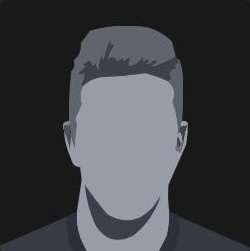
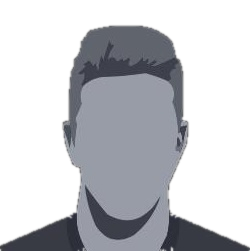
Fix league row alignment, use contract year and xValue

diff --git a/scout-app/src/PlayerScoutingCard.js b/scout-app/src/PlayerScoutingCard.js
@@ -296,6 +296,29 @@ const LEAGUE_DISPLAY_NAMES = {
 };
 
 // ── Country name (as found in birthCountry field) → ISO 3166-1 alpha-2 code, for flagcdn ──
+const POSITION_LABELS = {
+  'GK':'Goalkeeper (GK)',
+  'RB':'Right Back (RB)',
+  'RWB':'Right Wingback (RWB)',
+  'LCB':'Centre Back (CB)',
+  'CB':'Centre Back (CB)',
+  'RCB':'Centre Back (CB)',
+  'LB':'Left Back (LB)',
+  'LWB':'Left Wingback (LWB)',
+  'DMF':'Defensive Midfielder (DM)',
+  'LDMF':'Defensive Midfielder (DM)',
+  'RDMF':'Defensive Midfielder (DM)',
+  'LCMF':'Central Midfielder (CM)',
+  'RCMF':'Central Midfielder (CM)',
+  'AMF':'Attacking Midfielder (AM)',
+  'RAMF':'Right Winger (RW)',
+  'RWF':'Right Winger (RW)',
+  'RW':'Right Winger (RW)',
+  'LAMF':'Left Winger (LW)',
+  'LWF':'Left Winger (LW)',
+  'LW':'Left Winger (LW)',
+  'CF':'Striker (CF)',
+};
 const COUNTRY_TO_ISO2 = {
   'England': 'gb-eng', 'Scotland': 'gb-sct', 'Wales': 'gb-wls', 'Northern Ireland': 'gb-nir',
   'Spain': 'es', 'Germany': 'de', 'Italy': 'it', 'France': 'fr', 'Belgium': 'be',
@@ -563,8 +586,12 @@ export function buildCardElement(player, manual = {}) {
       <div id="scc-photo" style="position:absolute;left:-12px;top:16px;width:261px;height:261px;background-color:transparent;background-image:url('${photo}');background-size:cover;background-position:center top;"></div>
 
       <!-- NAME / POSITION / FOOT / FLAG / AGE -->
-      <div style="position:absolute;left:248px;top:24px;width:880px;font-size:53.2px;font-weight:700;line-height:1.05;letter-spacing:-0.5px;white-space:nowrap;overflow:hidden;text-overflow:ellipsis;">${player.name}</div>
-      <div style="position:absolute;left:248px;top:87px;font-size:26.6px;font-weight:600;color:#fff;">${player.position ? player.position.split(',')[0].trim() : (ROLE_KEY_LABELS[player.roleKey] || '')}</div>
+      <div style="position:absolute;left:248px;top:24px;width:880px;font-size:53.2px;font-weight:700;line-height:1.05;letter-spacing:-0.5px;white-space:nowrap;overflow:hidden;text-overflow:ellipsis;">${manual.nameOverride || player.name}</div>
+      <div style="position:absolute;left:248px;top:87px;font-size:26.6px;font-weight:600;color:#fff;">${(() => {
+        if (manual.positionOverride) return manual.positionOverride;
+        const rawPos = player.position ? player.position.split(',')[0].trim() : (ROLE_KEY_LABELS[player.roleKey] || '');
+        return POSITION_LABELS[rawPos] || rawPos;
+      })()}</div>
       ${player.foot && player.foot !== 'unknown' && player.foot !== 'nan' ? `<div style="position:absolute;left:536px;top:90px;font-size:21.3px;color:#c0c0c0;">${formatFoot(player.foot)}</div>` : ''}
       ${countryToIso2(player.birthCountry) ? `<div style="position:absolute;left:248px;top:155px;width:47px;height:28px;background-size:cover;background-position:center;background-image:url('https://flagcdn.com/w80/${countryToIso2(player.birthCountry)}.png');"></div>` : ''}
       <div style="position:absolute;left:310px;top:153px;font-size:26.6px;font-weight:600;color:#fff;">${player.age} years old</div>
@@ -573,7 +600,7 @@ export function buildCardElement(player, manual = {}) {
       ${[['Profile ▸',267,true],['Performance ▾',442,false],['Similar Players ▾',697,false],['Club Fit ▾',977,false],['Video ▾',1174,false],['Compare ▾',1318,false]].map(([t,x,act]) => `<div style="position:absolute;left:${x}px;top:227px;font-size:27.9px;font-weight:700;color:${act ? '#fff' : '#b4b4b4'};">${t}</div>`).join('')}
 
       <!-- CLUB CREST / NAME / LEAGUE -->
-      ${crest ? `<div style="position:absolute;left:764px;top:40px;width:107px;height:149px;background-size:contain;background-repeat:no-repeat;background-position:center;background-image:url('${crest}');"></div>` : ''}
+      ${(crest && !manual.hideTeamBadge) ? `<div style="position:absolute;left:764px;top:40px;width:107px;height:149px;background-size:contain;background-repeat:no-repeat;background-position:center;background-image:url('${crest}');"></div>` : ''}
       <div style="position:absolute;left:884px;top:57px;font-size:26.6px;font-weight:700;color:#fff;">${player.team}</div>
       <div style="position:absolute;left:884px;top:97px;display:flex;align-items:center;gap:10px;">
         <span style="font-size:21.3px;font-weight:500;color:#fff;white-space:nowrap;">${LEAGUE_DISPLAY_NAMES[player.league] || player.league}</span>
@@ -585,7 +612,7 @@ export function buildCardElement(player, manual = {}) {
       <div style="position:absolute;left:1164px;top:45px;width:3px;height:155px;background:#737373;"></div>
 
       <!-- INFO BOX -->
-      ${[['Height:', manual.height || '—'], ['Value:', player.xValue > 0 ? formatMV(player.xValue) : '—'], ['Contract:', (player.contractYear && player.contractYear !== 'nan') ? String(player.contractYear) : '—']].map(([k,v],i) => `
+      ${[['Height:', manual.height || '—'], ['Value:', manual.valueOverride || (player.xValue > 0 ? formatMV(player.xValue) : '—')], ['Contract:', (player.contractYear && player.contractYear !== 'nan') ? String(player.contractYear) : '—']].map(([k,v],i) => `
         <div style="position:absolute;left:1196px;top:${56 + i*50}px;font-size:20px;font-weight:600;color:#d9d9d9;">${k}</div>
         <div style="position:absolute;left:1311px;top:${56 + i*50}px;font-size:20px;font-weight:600;color:#fff;">${v}</div>`).join('')}
 
@@ -757,16 +784,20 @@ export async function downloadScoutingCardPNG(player, manual = {}) {
   // swap to the fallback image if it 404s, before html2canvas captures the card.
   const photoDiv = el.querySelector('#scc-photo');
   if (photoDiv) {
-    const bgUrl = photoUrl(player.name, player.team);
-    await new Promise((resolve) => {
-      const testImg = new Image();
-      testImg.onload = () => resolve();
-      testImg.onerror = () => {
-        photoDiv.style.backgroundImage = "url('/fallback.png')";
-        resolve();
-      };
-      testImg.src = bgUrl;
-    });
+    if (manual.playerPhotoDataUrl) {
+      photoDiv.style.backgroundImage = `url('${manual.playerPhotoDataUrl}')`;
+    } else {
+      const bgUrl = photoUrl(player.name, player.team);
+      await new Promise((resolve) => {
+        const testImg = new Image();
+        testImg.onload = () => resolve();
+        testImg.onerror = () => {
+          photoDiv.style.backgroundImage = "url('/fallback.png')";
+          resolve();
+        };
+        testImg.src = bgUrl;
+      });
+    }
   }
 
   try {

diff --git a/scout-app/src/ScoutingCardModal.js b/scout-app/src/ScoutingCardModal.js
@@ -29,6 +29,11 @@ export default function ScoutingCardModal({ player, onClose }) {
   const [avgRating5, setAvgRating5] = useState('');
   const [posImageFile, setPosImageFile] = useState(null);
   const [posImageDataUrl, setPosImageDataUrl] = useState('');
+  const [playerPhotoDataUrl, setPlayerPhotoDataUrl] = useState('');
+  const [hideTeamBadge, setHideTeamBadge] = useState(false);
+  const [nameOverride, setNameOverride] = useState('');
+  const [valueOverride, setValueOverride] = useState('');
+  const [positionOverride, setPositionOverride] = useState('');
   const [busy, setBusy] = useState(false);
 
   const handlePosImage = (e) => {
@@ -37,6 +42,14 @@ export default function ScoutingCardModal({ player, onClose }) {
     setPosImageFile(file);
     const reader = new FileReader();
     reader.onload = () => setPosImageDataUrl(reader.result);
+    reader.readAsDataURL(file);
+  };
+
+  const handlePlayerPhoto = (e) => {
+    const file = e.target.files[0];
+    if (!file) return;
+    const reader = new FileReader();
+    reader.onload = () => setPlayerPhotoDataUrl(reader.result);
     reader.readAsDataURL(file);
   };
 
@@ -51,6 +64,11 @@ export default function ScoutingCardModal({ player, onClose }) {
         form: form.toUpperCase().split('').filter(c => 'WDL'.includes(c)).slice(0, 5),
         avgRating5,
         positionImageDataUrl: posImageDataUrl,
+        playerPhotoDataUrl,
+        hideTeamBadge,
+        nameOverride,
+        valueOverride,
+        positionOverride,
       });
     } catch (err) {
       alert('Failed to generate card: ' + err.message);
@@ -72,6 +90,24 @@ export default function ScoutingCardModal({ player, onClose }) {
         <div style={{ display: 'flex', justifyContent: 'space-between', alignItems: 'center', marginBottom: 16 }}>
           <div style={{ fontSize: 16, fontWeight: 800, color: '#fff' }}>Scouting Card — {player.name}</div>
           <button onClick={onClose} style={{ background: 'none', border: 'none', color: '#94a3b8', fontSize: 18, cursor: 'pointer' }}>×</button>
+        </div>
+
+        <div style={{ display: 'flex', gap: 10, marginBottom: 14 }}>
+          <div style={{ flex: 1 }}>
+            <label style={labelStyle}>Name Override</label>
+            <input style={inputStyle} value={nameOverride} onChange={e => setNameOverride(e.target.value)} placeholder={player.name} />
+          </div>
+        </div>
+
+        <div style={{ display: 'flex', gap: 10, marginBottom: 14 }}>
+          <div style={{ flex: 1 }}>
+            <label style={labelStyle}>Position Override (under name)</label>
+            <input style={inputStyle} value={positionOverride} onChange={e => setPositionOverride(e.target.value)} placeholder="e.g. Striker (CF)" />
+          </div>
+          <div style={{ flex: 1 }}>
+            <label style={labelStyle}>Value Override</label>
+            <input style={inputStyle} value={valueOverride} onChange={e => setValueOverride(e.target.value)} placeholder="e.g. €35m" />
+          </div>
         </div>
 
         <div style={sectionStyle}>
@@ -144,6 +180,22 @@ export default function ScoutingCardModal({ player, onClose }) {
             <label style={labelStyle}>Last 5 Avg</label>
             <input style={inputStyle} value={avgRating5} onChange={e => setAvgRating5(e.target.value)} placeholder="6.3" />
           </div>
+        </div>
+
+        <div style={sectionStyle}>
+          <label style={labelStyle}>Player Photo Override</label>
+          <input type="file" accept="image/*" onChange={handlePlayerPhoto} style={{ fontSize: 11, color: '#94a3b8' }} />
+          {playerPhotoDataUrl && (
+            <div style={{ display: 'flex', alignItems: 'center', gap: 8, marginTop: 6 }}>
+              <img src={playerPhotoDataUrl} alt="" style={{ width: 32, height: 32, borderRadius: '50%', objectFit: 'cover' }} />
+              <button onClick={() => setPlayerPhotoDataUrl('')} style={{ background: 'none', border: 'none', color: '#94a3b8', fontSize: 11, cursor: 'pointer', textDecoration: 'underline' }}>Remove</button>
+            </div>
+          )}
+        </div>
+
+        <div style={{ ...sectionStyle, display: 'flex', alignItems: 'center', gap: 8 }}>
+          <input type="checkbox" id="hideTeamBadge" checked={hideTeamBadge} onChange={e => setHideTeamBadge(e.target.checked)} />
+          <label htmlFor="hideTeamBadge" style={{ fontSize: 12, color: '#cbd5e1', cursor: 'pointer' }}>Hide team badge</label>
         </div>
 
         <div style={sectionStyle}>
